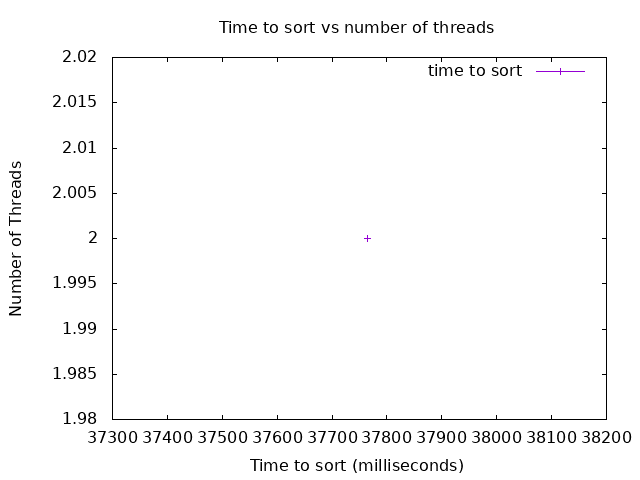
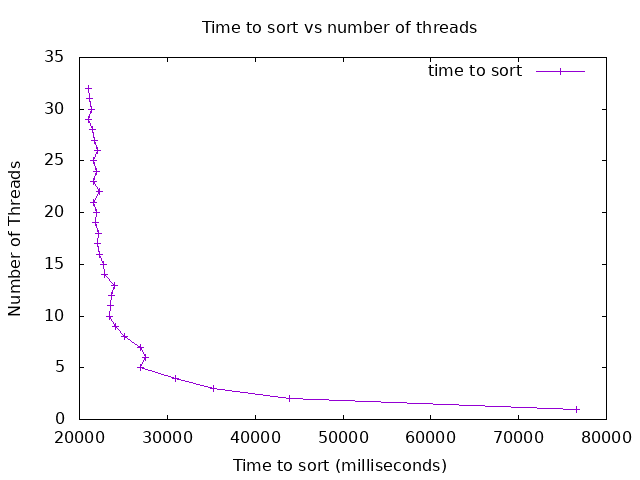
added analysis and updated data and plot

diff --git a/Analysis.md b/Analysis.md
@@ -1,0 +1,30 @@
+Task 6 - Complete the Analysis (ABET Outcome 1)
+Once you have completed all the tasks create a file named Analysis.md and add a new section named ## Analysis to the bottom of the document. 
+In this section you will need to include your graph as an image so it will display when viewed on github.com. 
+You will then need to talk about your results. Your discussion should be at least 500 words.
+
+![Graph of threads vs time for multi-threaded implimentation of mergesort](student_plot.png)
+Were you able to generate something close to what the example showed? Why or why not.
+Did you see a slow down at some point why or why not?
+
+Yes the graph I was able to create looked very similar to the one shown. I tested my code on the Boise State ONYX cluster
+so I had a larger number of threads to work with than shanes Mac book. So my graph closly resembled Shanes until around 9 threads which seemed to be the limit for for his M1 Macbook
+where in my case ONYX still had plently of free threads so my graph continued to speed up linearly positive with some small deviation.
+
+There were some marginal slow downs, I would attribute to the load of other students working in the labs on the cluster. 
+If I were to test it again perhaps running it very early or late perhaps I could get a faster performance.
+
+Did your program run faster and faster when you added more threads? Why or why not?
+
+Yes the program continued to speed up as more threads were added, I think for the ONYX system a larger upper limit than 32 threads would have been a better test but would take alot of time.
+
+What was the optimum number of threads for your machine?
+
+32
+
+What was the slowest number of threads for your machine?
+
+1 thread. The greatest increase was from 1 thread to 2 nearly doubling perfomance.
+
+If your graph does not look like the example graph you will need to explain why, maybe go back and look at your original implementation, 
+did you make a mistake somewhere? If you found a bug in your original implementation please note that and explain what you fixed 😃.
